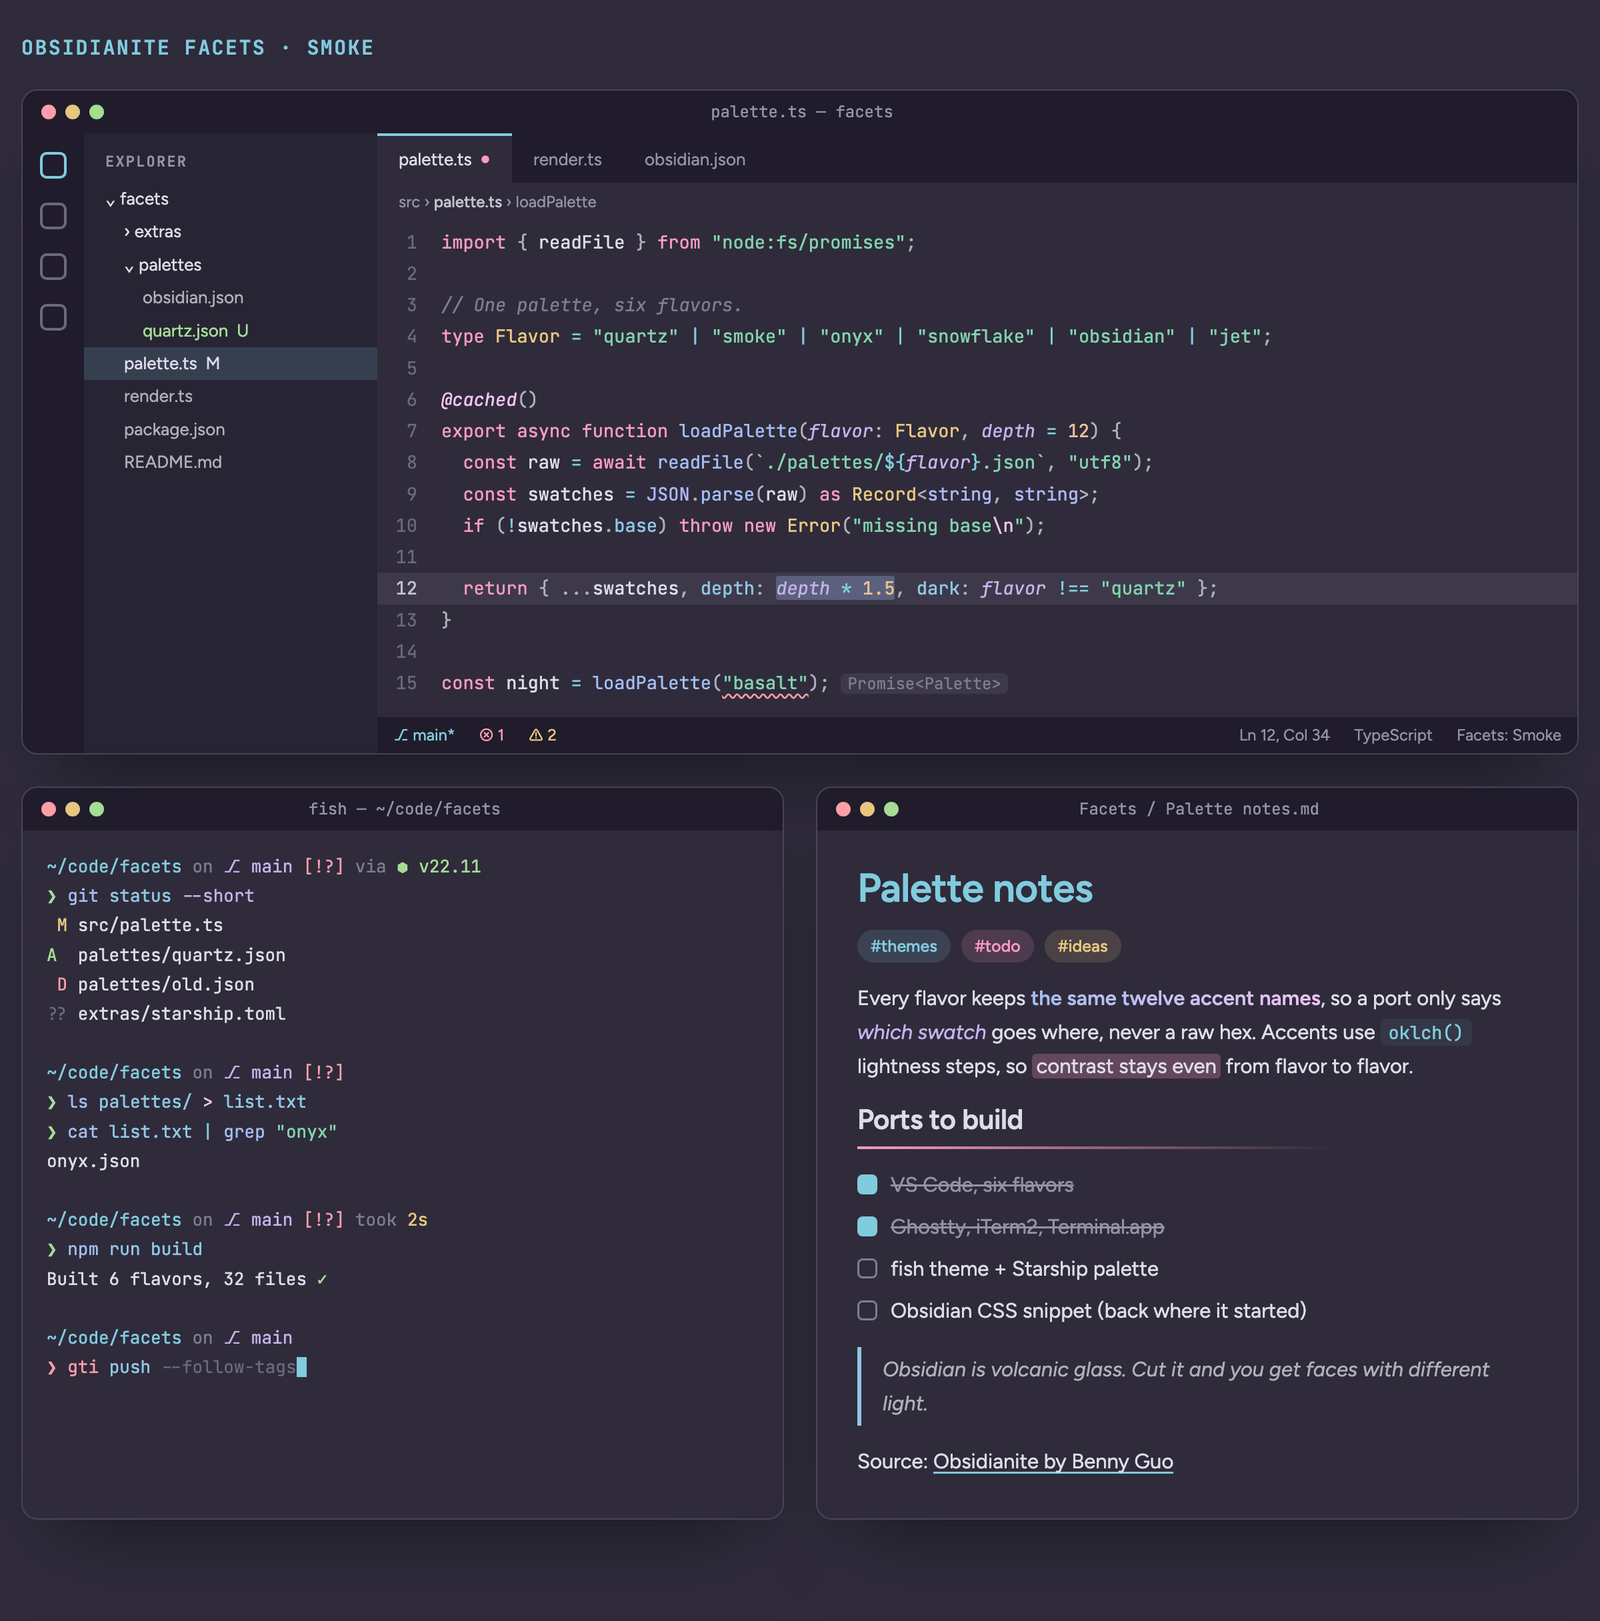
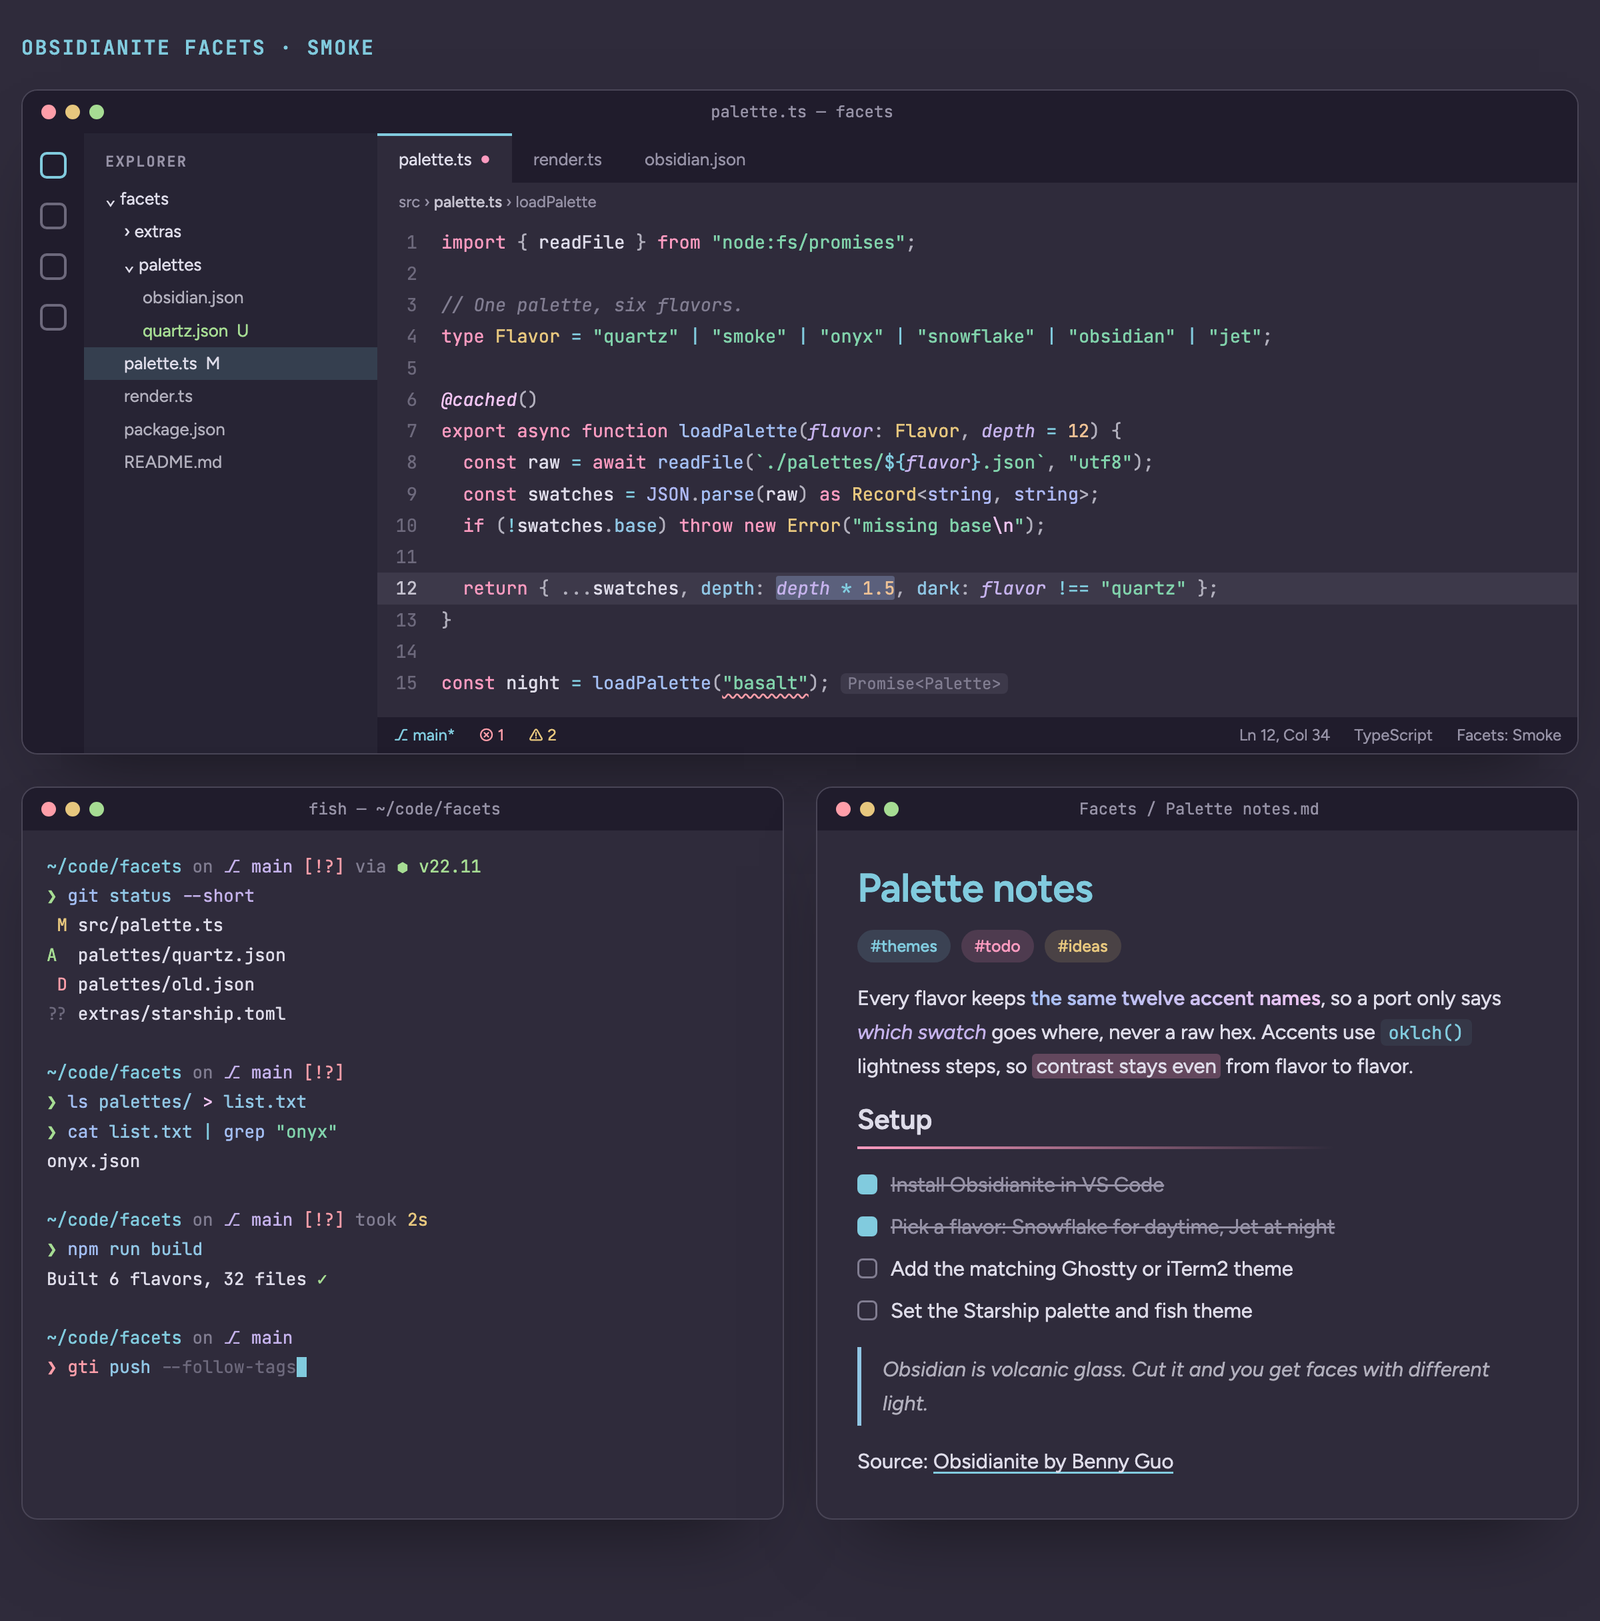
Preview page: drop internal planning section, refresh screenshots
- Remove the "Plan / What ships" section; footer keeps the credits and
  adds Marketplace, download and source links
- Replace the sample note's roadmap checklist with a setup checklist
- Hero label and style-guide wording no longer read as a concept draft
- Recapture README screenshots, thumbnails and GIF

Changed region(s): [[0.5312, 0.6786, 0.8438, 0.8328]]

diff --git a/docs/index.html b/docs/index.html
@@ -165,7 +165,7 @@ section { display: flex; flex-direction: column; gap: 24px; }
 .ansi16 i { height: 14px; display: block; }
 
 /* capture view (?shot): only the workbench, used to make README screenshots */
-.shot .hero, .shot section:not(#workbench), .shot .section-head h2, .shot .section-head p { display: none; }
+.shot .hero, .shot section:not(#workbench), .shot .site-foot, .shot .section-head h2, .shot .section-head p { display: none; }
 .shot .wrap { max-width: 1200px; padding-block: 28px 32px; gap: 0; }
 .shot .section-head .eyebrow { font-size: 15px; letter-spacing: .08em; color: var(--aquamarine); }
 .shot .cursor { animation: none; }
@@ -189,6 +189,8 @@ section { display: flex; flex-direction: column; gap: 24px; }
 .card .accent { color: var(--aquamarine); }
 .foot { color: var(--veil2); font-size: 14px; border-top: 1px solid var(--layer1); padding-top: 24px; }
 .foot a { color: var(--topaz); }
+.site-foot { display: flex; flex-direction: column; gap: 16px; }
+.site-foot .links { font-size: 15px; color: var(--muted0); }
 
 @media (max-width: 980px) {
   .hero, .duo { grid-template-columns: minmax(0, 1fr); }
@@ -213,7 +215,7 @@ section { display: flex; flex-direction: column; gap: 24px; }
 
   <header class="hero">
     <div class="hero-copy">
-      <span class="eyebrow">Concept · Obsidianite family</span>
+      <span class="eyebrow">VS Code · Terminal · Shell</span>
       <h1>Obsidianite <span class="facet">Facets</span></h1>
       <p class="lede">One palette cut six ways. Obsidianite's cyan, pink and violet become twelve named gem accents and a twelve-step neutral ladder, in one light flavor, four dark ones and an AMOLED black. Every app port takes its colors from the same swatch names, so VS Code, your terminal and your notes all match.</p>
     </div>
@@ -263,12 +265,12 @@ section { display: flex; flex-direction: column; gap: 24px; }
           <h3 class="n1">Palette notes</h3>
           <div class="tags"><span class="tag">#themes</span><span class="tag todo">#todo</span><span class="tag idea">#ideas</span></div>
           <p>Every flavor keeps <strong>the same twelve accent names</strong>, so a port only says <em>which swatch</em> goes where, never a raw hex. Accents use <code>oklch()</code> lightness steps, so <mark>contrast stays even</mark> from flavor to flavor.</p>
-          <h3 class="n2">Ports to build</h3>
+          <h3 class="n2">Setup</h3>
           <ul>
-            <li class="done"><span class="box done"></span><span>VS Code, six flavors</span></li>
-            <li class="done"><span class="box done"></span><span>Ghostty, iTerm2, Terminal.app</span></li>
-            <li><span class="box"></span><span>fish theme + Starship palette</span></li>
-            <li><span class="box"></span><span>Obsidian CSS snippet (back where it started)</span></li>
+            <li class="done"><span class="box done"></span><span>Install Obsidianite in VS Code</span></li>
+            <li class="done"><span class="box done"></span><span>Pick a flavor: Snowflake for daytime, Jet at night</span></li>
+            <li><span class="box"></span><span>Add the matching Ghostty or iTerm2 theme</span></li>
+            <li><span class="box"></span><span>Set the Starship palette and fish theme</span></li>
           </ul>
           <blockquote>Obsidian is volcanic glass. Cut it and you get faces with different light.</blockquote>
           <p>Source: <a href="https://github.com/bennyxguo/Obsidian-Obsidianite">Obsidianite by Benny Guo</a></p>
@@ -309,24 +311,16 @@ section { display: flex; flex-direction: column; gap: 24px; }
     <div class="section-head">
       <span class="eyebrow">Style guide</span>
       <h2 id="rules-h">Which swatch does what</h2>
-      <p>Every port follows this table. It's what keeps ten different apps looking like one theme.</p>
+      <p>Every port follows this table. It's what keeps VS Code, your terminal and your shell looking like one theme.</p>
     </div>
     <div class="rules"><table><thead><tr><th>Role</th><th>Swatch</th><th>In code</th><th>In UI</th></tr></thead><tbody id="rules"></tbody></table></div>
   </section>
 
-  <section aria-labelledby="next">
-    <div class="section-head">
-      <span class="eyebrow">Plan</span>
-      <h2 id="next">What ships</h2>
-    </div>
-    <div class="cards">
-      <div class="card"><h3>Ports</h3><ul><li>VS Code: six Facets themes next to Obsidianite and Obsidianite AMOLED</li><li>Ghostty, iTerm2, macOS Terminal</li><li>fish theme files and a Starship <span class="accent">[palettes.facets_*]</span> block</li><li>bat / delta, Obsidian CSS snippet</li></ul></div>
-      <div class="card"><h3>Built from one file</h3><p><span class="accent">palettes/facets.json</span> plus <span class="accent">npm run build</span> generates every port and this page's colors. To change a color, edit one value and every app picks it up on the next build.</p></div>
-      <div class="card"><h3>Decided</h3><ul><li>Ships in the same repo and extension as Obsidianite 1.x</li><li>Obsidian stays vivid; Snowflake is its pastel twin</li><li>Jet is the AMOLED flavor</li></ul></div>
-    </div>
+  <footer class="site-foot">
+    <p class="foot links"><a href="https://marketplace.visualstudio.com/items?itemName=shd0w.obsidianite-vscode">Install from the VS Code Marketplace</a> · <a href="https://github.com/shd0w/obsidianite-vscode/releases/latest">Download the terminal themes</a> · <a href="https://github.com/shd0w/obsidianite-vscode">Source on GitHub</a></p>
     <p class="foot">Palette calculated in OKLCH from the hues in Obsidianite's CSS. Obsidian and Snowflake keep the original <code style="font-family:var(--mono)">#100e17</code> background.<br><br>
       <b>Credits.</b> Based on <a href="https://github.com/bennyxguo/Obsidian-Obsidianite">Obsidianite</a> by Benny Guo (MIT), the Obsidian theme these colors come from. Its code-block colors come from <a href="https://draculatheme.com">Dracula</a> (MIT). Organizing Facets as flavors with named swatches was inspired by <a href="https://github.com/catppuccin/catppuccin">Catppuccin</a> (MIT); no Catppuccin colors, names or code are used. An independent, unofficial project, not affiliated with Obsidian, Obsidianite, Dracula or Catppuccin. Details in <a href="https://github.com/shd0w/obsidianite-vscode/blob/main/CREDITS.md">CREDITS.md</a>.</p>
-  </section>
+  </footer>
 </div>
 
 <script src="facets.js"></script>
